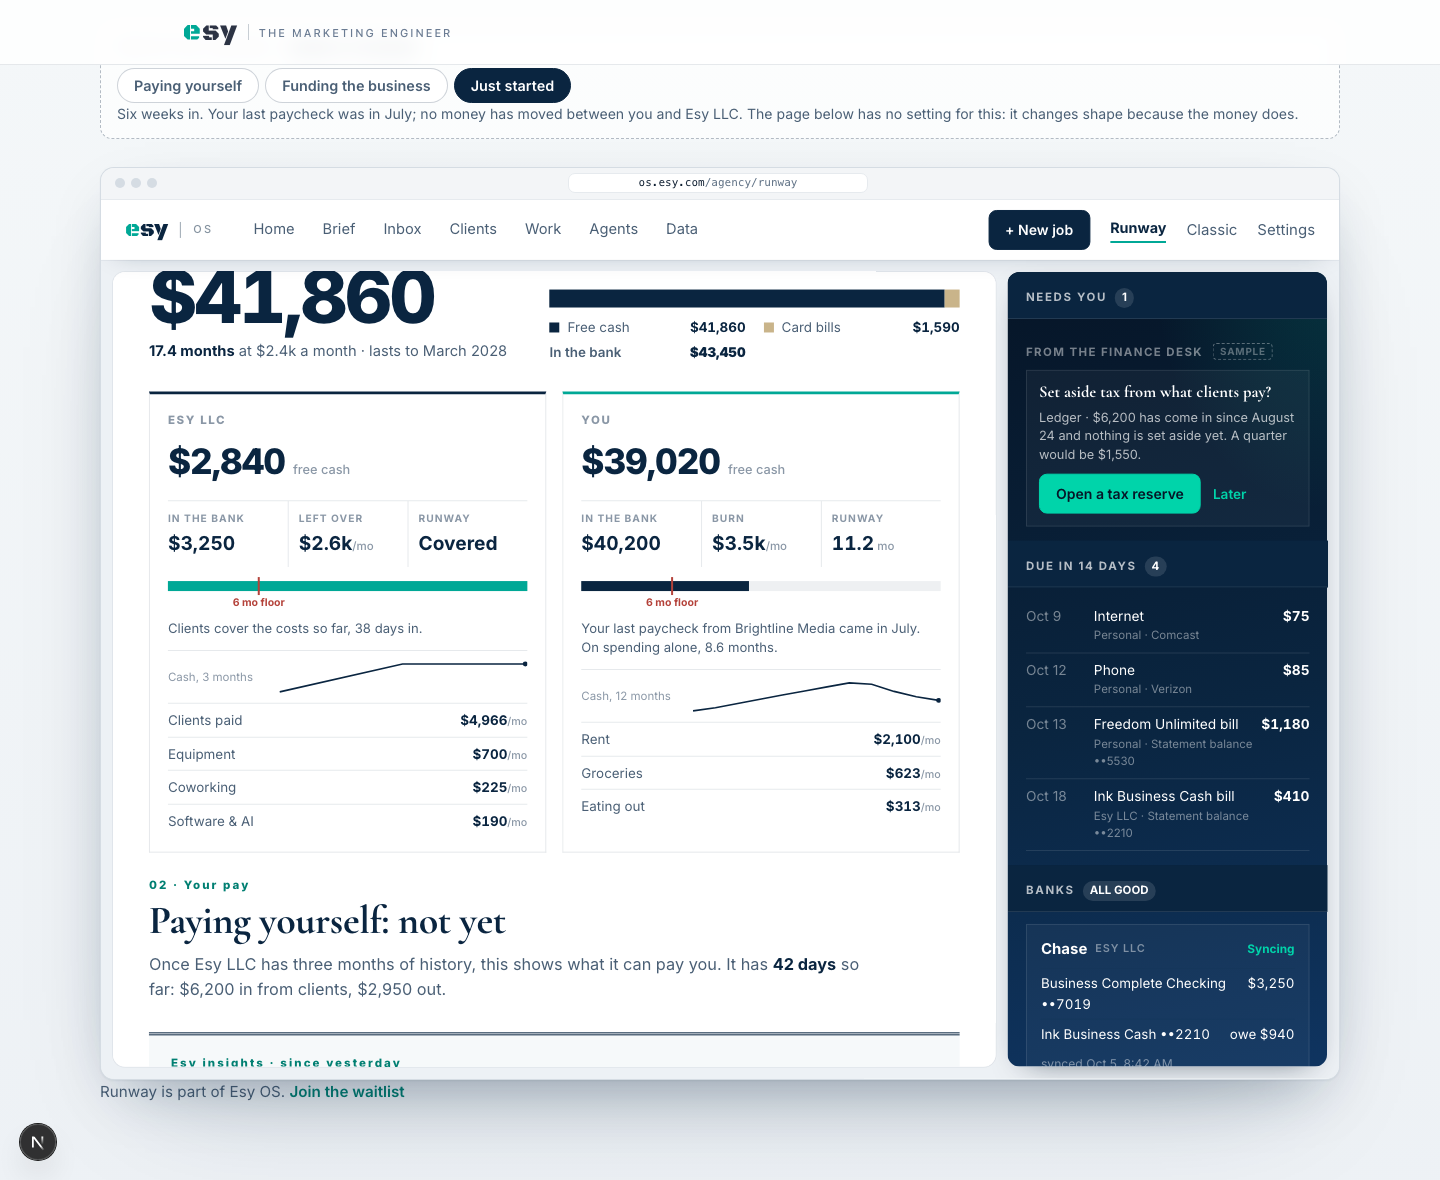
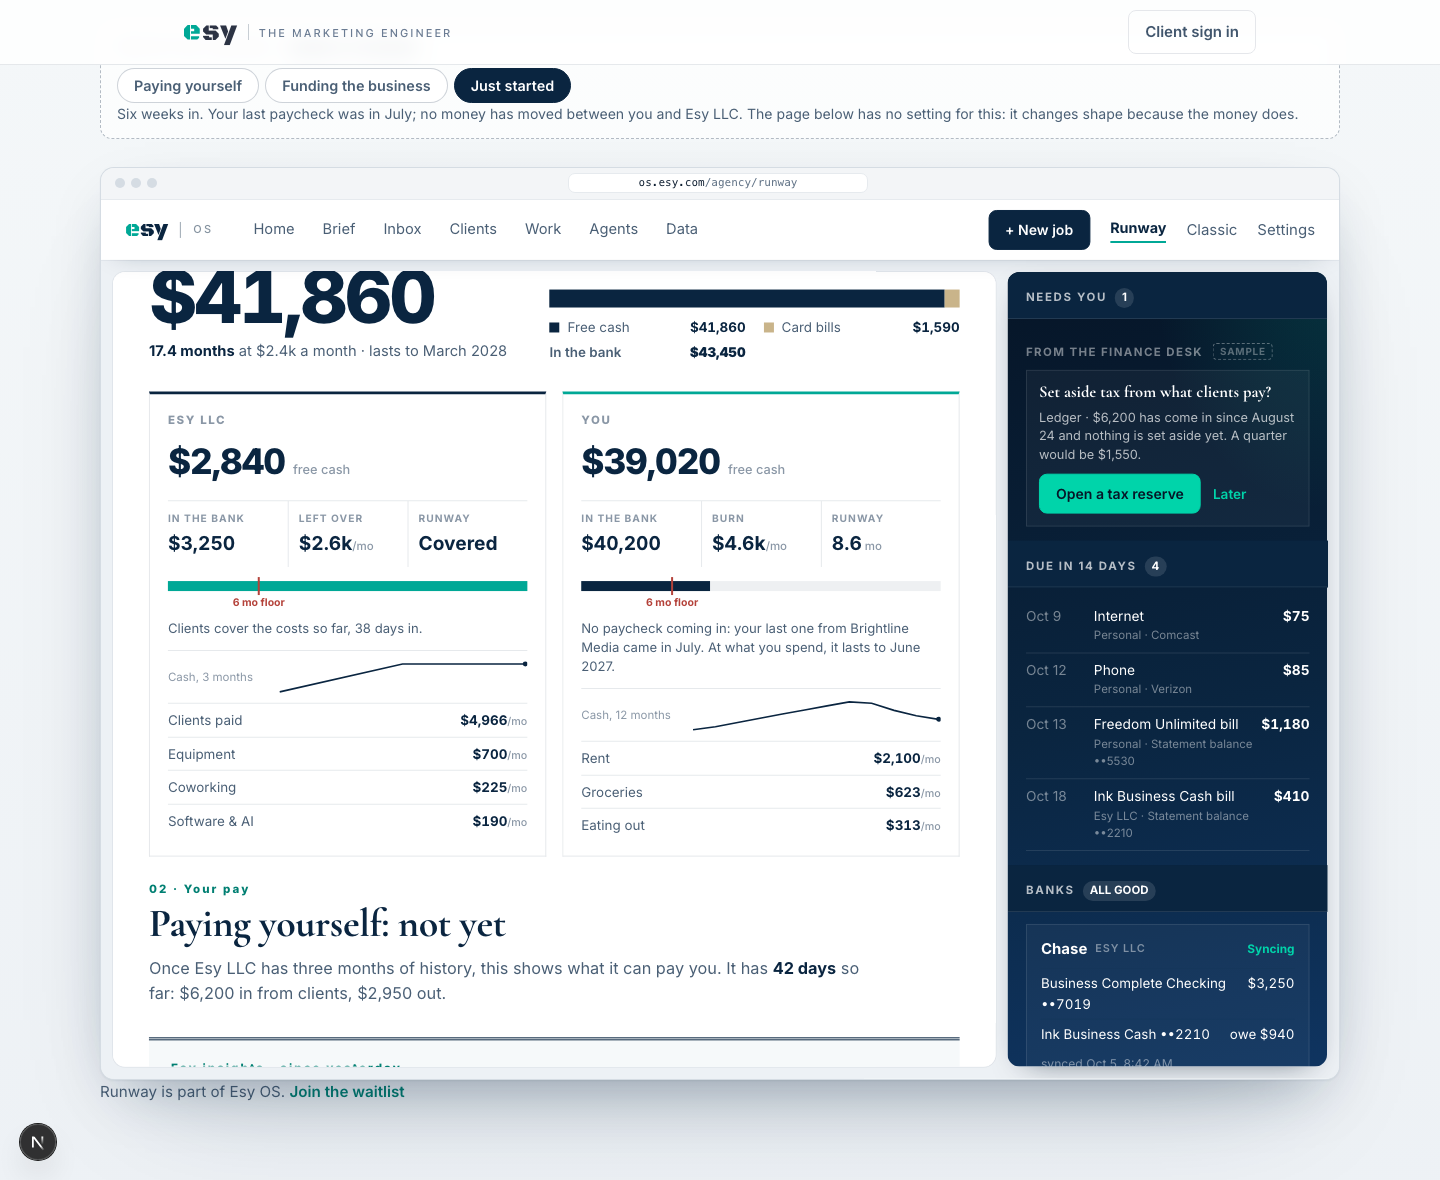
Runway D is the pick, and "Just started" shows one runway for you
When a paycheck from an old job has stopped, the You column on Combined now
measures by what drains your money today (spending, plus anything you put
into the business, less savings interest), the same clock as the Personal
tab. "Just started" reads 8.6 months in both places instead of 11.2 and 8.6.

The registry and README name D as the pick, going live on
os.esy.com/agency/runway; `live` stays unset until that PR merges.

diff --git a/src/components/RunwayViews/parts.tsx b/src/components/RunwayViews/parts.tsx
@@ -29,6 +29,13 @@ export const payMode = (biz: ScopeBook): PayMode => (biz.avgPay > 0 ? 'paying' :
 
 const monthName = (period: string) => new Date(`${period}-15T12:00:00`).toLocaleDateString('en-US', { month: 'long' });
 
+/**
+ * What drains your own money each month when no pay comes in: what you spend,
+ * plus what you put into the business, less savings interest. A paycheck that
+ * has stopped isn't counted. The You column and the Personal tab both use it.
+ */
+export const personalDrain = (you: ScopeBook) => Math.round(you.avgSpend + you.avgFromYou - you.avgInterest);
+
 // ── The side cards and the bridge (B · Split) ───────────────────────────────
 
 const SCALE_MONTHS = 24; // the runway bars run to two years
@@ -38,12 +45,16 @@ export function SideCard({ side, b }: { side: Side; b: ScopeBook }) {
   const propped = side === 'business' && b.avgFromYou > 0;
   // What the business burns without the money you put in.
   const onOwnBurn = Math.round(b.avgOut - b.avgIncome);
-  const covered = b.burnMeasured && b.runwayMonths == null && !propped;
+  // A paycheck from somewhere else that has stopped: the three-month average
+  // still holds its last weeks, so measure by what drains your money now
+  // instead (the same clock as the Personal tab).
+  const lastClosed = b.months[b.months.length - 2]?.period ?? '';
+  const lastPaycheck = side === 'personal' && b.salary?.lastPeriod && b.salary.lastPeriod < lastClosed ? b.salary : null;
+  const burn = lastPaycheck ? personalDrain(b) : b.burnCents;
+  const covered = b.burnMeasured && burn <= 0 && !propped;
   // A side whose money in covers money out still has a number worth knowing: how long without that money in.
   const ifStopped = covered && side === 'personal' ? runwayAt(b.freeCents, Math.round(b.avgOut - b.avgInterest - b.avgIncome)) : null;
-  const months = !b.burnMeasured ? null : propped ? runwayAt(b.freeCents, onOwnBurn) : covered ? ifStopped : b.runwayMonths;
-  const lastPaycheck = side === 'personal' && b.salary?.lastPeriod ? b.salary : null;
-  const spendOnly = lastPaycheck ? runwayAt(b.freeCents, Math.round(b.avgSpend - b.avgInterest)) : null;
+  const months = !b.burnMeasured ? null : propped ? runwayAt(b.freeCents, onOwnBurn) : covered ? ifStopped : runwayAt(b.freeCents, burn);
   const top = b.cats.filter((c) => c.key !== 'OTHER' && c.key !== 'OWNER_PAY').slice(0, 3)
     .map((c) => ({ name: c.name, cents: b.catSeries.slice(-4, -1).reduce((n, m) => n + (m.byCat[c.key] ?? 0), 0) / Math.min(3, Math.max(1, b.catSeries.length - 1)) }));
   const low = months != null && months < FLOOR_MONTHS;
@@ -53,7 +64,7 @@ export function SideCard({ side, b }: { side: Side; b: ScopeBook }) {
   else if (propped) facts.push(['Burn on its own', <>{usdK(onOwnBurn)}<small>/mo</small></>], ['On its own', <>{mo(months)}<small> mo</small></>, low ? 'is-low' : '']);
   else if (covered && side === 'business') facts.push(['Left over', <>{usdK(-b.burnCents)}<small>/mo</small></>, 'is-up'], ['Runway', 'Covered']);
   else if (covered) facts.push(['Left over', <>{usdK(-b.burnCents)}<small>/mo</small></>, 'is-up'], ['If pay stopped', <>{mo(months)}<small> mo</small></>, low ? 'is-low' : '']);
-  else facts.push(['Burn', <>{usdK(b.burnCents)}<small>/mo</small></>], ['Runway', <>{mo(months)}<small> mo</small></>, low ? 'is-low' : '']);
+  else facts.push(['Burn', <>{usdK(burn)}<small>/mo</small></>], ['Runway', <>{mo(months)}<small> mo</small></>, low ? 'is-low' : '']);
 
   const note = !b.burnMeasured
     ? <>Not enough history yet, {b.observedDays} days in. A month of activity gives a usable rate.</>
@@ -68,7 +79,7 @@ export function SideCard({ side, b }: { side: Side; b: ScopeBook }) {
             : b.avgFromYou > 0
               ? <>Lasts to {lastsTo(months ?? 0)}, the {usd(b.avgFromYou)} a month into {AGENCY} included.</>
               : lastPaycheck
-                ? <>Your last paycheck from {lastPaycheck.label.replace(/ payroll$/, '')} came in {monthName(lastPaycheck.lastPeriod!)}. On spending alone, {mo(spendOnly)} months.</>
+                ? <>No paycheck coming in: your last one from {lastPaycheck.label.replace(/ payroll$/, '')} came in {monthName(lastPaycheck.lastPeriod!)}. At what you spend, it lasts to {lastsTo(months ?? 0)}.</>
                 : <>Lasts to {lastsTo(months ?? 0)} at this burn.</>;
 
   const firstLine = side === 'business'

diff --git a/src/components/RunwayViews/combined/RunwayMerged.tsx b/src/components/RunwayViews/combined/RunwayMerged.tsx
@@ -19,7 +19,7 @@ import { useState } from 'react';
 import { FlowBars } from '../charts';
 import { mo, shortDate, usd, usdK } from '../format';
 import MovedNote from '../MovedNote';
-import { Bridge, NotYetGoal, PayPlanner, PaycheckChart, SideCard, paycheckAnswer, payMode } from '../parts';
+import { Bridge, NotYetGoal, PayPlanner, PaycheckChart, SideCard, paycheckAnswer, payMode, personalDrain } from '../parts';
 import { AGENCY, FLOOR_MONTHS, bookFor, lastsTo, runwayAt, upcoming, type Scope, type ScopeBook, type Stage } from '../sample';
 import { Chapters, FreeCashHero, Insights, Keys, Mast, Rail, RunwayBody, SampleFoot, liveKeys, type Key } from '../shared';
 
@@ -82,11 +82,6 @@ function PaycheckLead({ stage, you }: { stage: Stage; you: ScopeBook }) {
     </>
   );
 }
-
-// What drains your money now when no pay comes in: what you spend, plus what
-// you put into the business, less savings interest. A paycheck that has
-// stopped isn't counted.
-const personalDrain = (you: ScopeBook) => Math.round(you.avgSpend + you.avgFromYou - you.avgInterest);
 
 /** Personal's free-cash line: how long your money lasts, by the same clock as the section under it. */
 function personalLine(you: ScopeBook, paying: boolean) {

diff --git a/src/components/prototypes/registry.ts b/src/components/prototypes/registry.ts
@@ -2134,7 +2134,7 @@ export const PROTOTYPES: Prototype[] = [
       {
         n: 2,
         title: 'One page, three stages',
-        summary: 'D merges A, B and C into one page, plus the personal paycheck and safety net. Switch the sample founder from paying themselves to funding the business to just started, and the page changes shape with the money.',
+        summary: 'D merges A, B and C into one page, plus the personal paycheck and safety net. Switch the sample founder from paying themselves to funding the business to just started, and the page changes shape with the money. D is the pick: it is going live on os.esy.com/agency/runway.',
       },
     ],
     variants: [

diff --git a/docs/prototypes/README.md b/docs/prototypes/README.md
@@ -42,6 +42,8 @@ Clickable directions we compare by using them, not by looking at mockups. They l
 
 `sample.ts` now holds three datasets built from the same shapes, and short history is handled the API's way: rates divided by observed days, and no rate under 30 days. The shared pieces moved into `parts.tsx` (side cards, bridge, pay planner, not-yet goal, paycheck chart), and B, C and Personal B use them with the same output. Screenshots: `runway-combined-d-paying.png`, `runway-combined-d-funding.png`, `runway-combined-d-starting.png`.
 
+**D is the pick (2026-10-06).** It is going live on os.esy.com/agency/runway through a companion os.esy.com PR. The prototypes stay here. D's registry entry leaves `live` unset until that PR merges, so the index doesn't call it live before it is. Then set `live: true` and `liveHref`.
+
 ## The pattern
 
 1. **Show the real product, not a picture of it.** Don't screenshot the app and don't draw a mockup. Rebuild the page from the product's own source: same markup, same class names, and the product's stylesheets **copied verbatim** (with a provenance header saying where they came from and when). Keep any tweaks for the new setting in a separate file. The result looks like the product because it *is* the product's UI.
